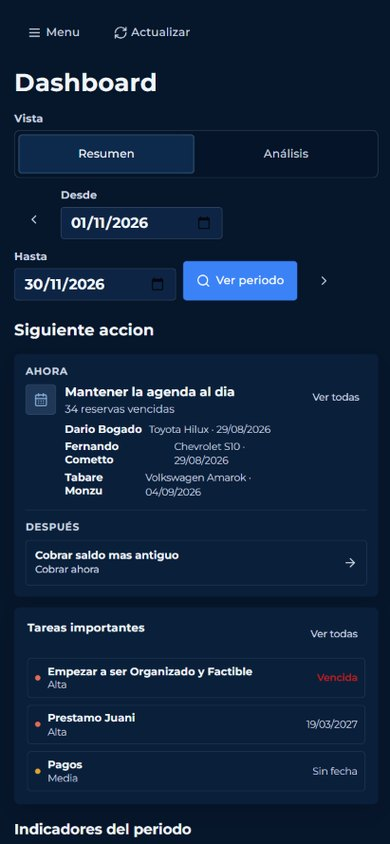
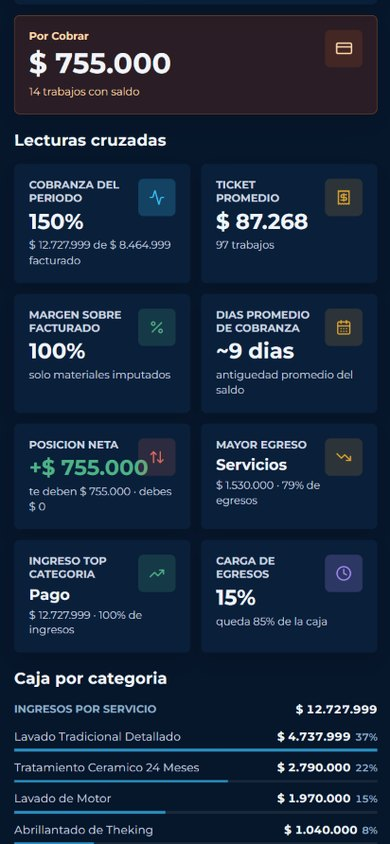
feat: grow the island 2 system to six modules and use the ShineApp indicators on the phone

diff --git a/src/app/world.css b/src/app/world.css
@@ -7366,8 +7366,9 @@ html[data-motion-tier="reduced"] .works-index__shot {
     font-size: 4.2cqi;
   }
 
+  /* Six modules (22 November 2026): tighter rows keep the card above the island's meadow. */
   .proposal-frame--scene .proposal__modules {
-    gap: 2.2cqi;
+    gap: 1.4cqi;
     padding-inline-start: 6cqi;
   }
 
@@ -7377,7 +7378,7 @@ html[data-motion-tier="reduced"] .works-index__shot {
   }
 
   .proposal-frame--scene .proposal__module {
-    padding: 2.4cqi 3.4cqi;
+    padding: 1.7cqi 3.4cqi;
     border-radius: 3cqi;
   }
 
@@ -7406,14 +7407,19 @@ html[data-motion-tier="reduced"] .works-index__shot {
     font-size: 4.3cqi;
   }
 
-  .problem__ask:nth-child(2) { --ask-range: contain 8% contain 24%; }
-  .problem__ask:nth-child(3) { --ask-range: contain 26% contain 42%; }
-  .problem__ask:nth-child(4) { --ask-range: contain 44% contain 60%; }
-  .problem__ask:nth-child(5) { --ask-range: contain 62% contain 78%; }
-  .proposal-frame--scene .proposal__module:nth-child(1) { --answer-range: contain 22% contain 30%; }
-  .proposal-frame--scene .proposal__module:nth-child(2) { --answer-range: contain 40% contain 48%; }
-  .proposal-frame--scene .proposal__module:nth-child(3) { --answer-range: contain 58% contain 66%; }
-  .proposal-frame--scene .proposal__module:nth-child(4) { --answer-range: contain 76% contain 84%; }
+  /* Six questions, one every 12.5 % of the pin; each module lands as its question ends. */
+  .problem__ask:nth-child(2) { --ask-range: contain 6% contain 17%; }
+  .problem__ask:nth-child(3) { --ask-range: contain 18.5% contain 29.5%; }
+  .problem__ask:nth-child(4) { --ask-range: contain 31% contain 42%; }
+  .problem__ask:nth-child(5) { --ask-range: contain 43.5% contain 54.5%; }
+  .problem__ask:nth-child(6) { --ask-range: contain 56% contain 67%; }
+  .problem__ask:nth-child(7) { --ask-range: contain 68.5% contain 79.5%; }
+  .proposal-frame--scene .proposal__module:nth-child(1) { --answer-range: contain 15% contain 21%; }
+  .proposal-frame--scene .proposal__module:nth-child(2) { --answer-range: contain 27.5% contain 33.5%; }
+  .proposal-frame--scene .proposal__module:nth-child(3) { --answer-range: contain 40% contain 46%; }
+  .proposal-frame--scene .proposal__module:nth-child(4) { --answer-range: contain 52.5% contain 58.5%; }
+  .proposal-frame--scene .proposal__module:nth-child(5) { --answer-range: contain 65% contain 71%; }
+  .proposal-frame--scene .proposal__module:nth-child(6) { --answer-range: contain 77.5% contain 83.5%; }
   .proposal-frame--scene .proposal__closing { --answer-range: contain 86% contain 92%; }
 
   @supports (animation-timeline: view()) {

diff --git a/src/content/case-picker.ts b/src/content/case-picker.ts
@@ -44,9 +44,11 @@ export const casePicker = {
   proposal: {
     base: { title: "Sistema de gestión", text: "Clientes, ventas y turnos en un solo panel." },
     modules: [
-      { question: "¿Cuánto sale?", title: "Bot de WhatsApp", text: "Responde precios y consultas al instante." },
+      { question: "¿Me pasás los precios?", title: "Bot de WhatsApp", text: "Responde precios y consultas al instante." },
       { question: "¿Tenés turno el jueves?", title: "Turnos online", text: "Tus clientes reservan solos." },
       { question: "¿Te queda en stock?", title: "Control de stock", text: "Sabés qué hay y qué falta." },
+      { question: "¿Cuánto te debo?", title: "Cuentas y cobros", text: "Sabés quién pagó y quién te debe." },
+      { question: "¿Cómo vino el mes?", title: "Tus números", text: "Ventas y ganancias del mes." },
       { question: "¿Y si se corta internet?", title: "Disponibilidad offline", text: "Sigue funcionando sin conexión." },
     ],
     closing: "Un solo sistema, armado a tu medida.",

diff --git a/src/content/projects.ts b/src/content/projects.ts
@@ -78,7 +78,7 @@ export const projects = [
       { src: "/images/proyectos/shineapp/panel.jpg", alt: "Panel de ShineApp con la agenda del día, los indicadores del período y la caja por categoría", width: 1440, height: 900 },
       { src: "/images/proyectos/shineapp/escritorio.jpg", alt: "Pantalla de acceso de ShineApp", width: 1440, height: 900 },
     ],
-    phoneImage: { src: "/images/proyectos/shineapp/celular.jpg", alt: "Panel de ShineApp en el celular", width: 390, height: 844 },
+    phoneImage: { src: "/images/proyectos/shineapp/celular.jpg", alt: "Indicadores del período en ShineApp, en el celular", width: 390, height: 844 },
     url: "https://shineapp.lat/",
   },
   {

diff --git a/src/components/world/problem-island.tsx b/src/components/world/problem-island.tsx
@@ -19,6 +19,8 @@ const askStarts = [
   ["25%", "31%"],
   ["20%", "52%"],
   ["27%", "47%"],
+  ["30%", "38%"],
+  ["23%", "57%"],
 ] as const;
 
 /**
